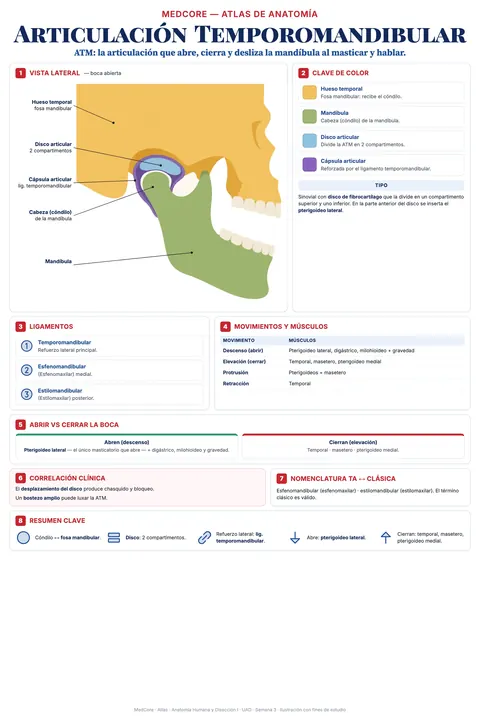
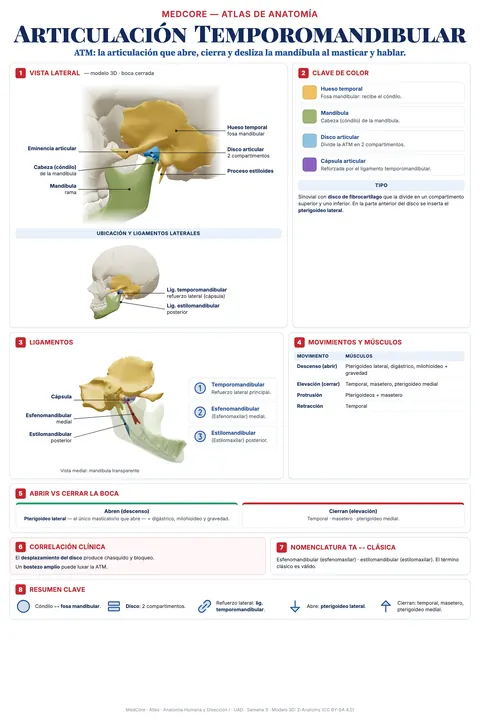
feat(atlas): ATM y articulaciones de la columna con renders de Z-Anatomy
ATM: acercamiento lateral (temporal, disco, cóndilo, estiloides), ubicación
con ligamento temporomandibular y vista medial con los ligamentos
esfenomandibular y estilomandibular. Columna: corte sagital T12–L4 con
discos, núcleo pulposo y los cinco ligamentos. render-atlas.html: opción
clip para cortes sagitales.

diff --git a/docs/atlas-posters/membrana/src/anat-atm.html b/docs/atlas-posters/membrana/src/anat-atm.html
@@ -9,10 +9,10 @@
 
 <div class="row">
   <section class="panel" style="flex:1.6">
-    <div class="ph"><span class="n">1</span>Vista lateral <small>— boca abierta</small></div>
-    <script type="callout">{"img":"ana/atm.png","w":1024,"h":1070,"height":470,"L":130,"cw":580,"ch":480,
-      "left":[["Hueso temporal","fosa mandibular",[180,190],50],["Disco articular","2 compartimentos",[410,395],140],["Cápsula articular","lig. temporomandibular",[285,470],215],["Cabeza (cóndilo)","de la mandíbula",[370,500],285],["Mandíbula","",[560,820],390]],
-      "right":[]}</script>
+    <div class="ph"><span class="n">1</span>Vista lateral <small>— modelo 3D · boca cerrada</small></div>
+    <script type="auto3d">{"img": "ana3d/atm-zoom.png", "height": 300, "cw": 580, "L": 140, "gap": 40, "labels": {"tem": ["Hueso temporal", "fosa mandibular", [947, 467]], "emi": ["Eminencia articular", "", [457, 677]], "disc": ["Disco articular", "2 compartimentos", [702, 688]], "con": ["Cabeza (cóndilo)", "de la mandíbula", [714, 790]], "est": ["Proceso estiloides", "", [796, 900]], "man": ["Mandíbula", "rama", [481, 1050]]}, "side": {"emi": "left", "man": "left", "con": "left", "tem": "right", "disc": "right", "est": "right"}}</script>
+    <div class="sh" style="margin-top:4px">Ubicación y ligamentos laterales</div>
+    <script type="auto3d">{"img": "ana3d/atm-lat.png", "height": 165, "cw": 580, "L": 150, "gap": 34, "labels": {"lig": ["Lig. temporomandibular", "refuerzo lateral (cápsula)"], "sty": ["Lig. estilomandibular", "posterior"]}, "side": {"lig": "right", "sty": "right"}}</script>
   </section>
 
   <section class="panel" style="flex:1">
@@ -29,13 +29,13 @@
 </div>
 
 <div class="row">
-  <section class="panel" style="flex:1">
+  <section class="panel" style="flex:2">
     <div class="ph"><span class="n">3</span>Ligamentos</div>
-    <div class="cards">
+    <div style="display:flex;gap:10px;align-items:center"><div style="flex:0 0 360px"><script type="auto3d">{"img": "ana3d/atm-med.png", "height": 240, "cw": 360, "L": 130, "gap": 40, "labels": {"sph": ["Esfenomandibular", "medial"], "sty": ["Estilomandibular", "posterior"], "cap": ["Cápsula", ""]}, "side": {"sph": "left", "sty": "left", "cap": "left"}}</script><p style="font-size:9.6px;color:var(--muted);margin:0;text-align:center">Vista medial: mandíbula transparente</p></div><div style="flex:1;min-width:0"><div class="cards">
       <div class="card"><span class="ico">{{icon:NumberCircleOne}}</span><div><p class="t">Temporomandibular</p><p class="d">Refuerzo lateral principal.</p></div></div>
       <div class="card"><span class="ico">{{icon:NumberCircleTwo}}</span><div><p class="t">Esfenomandibular</p><p class="d">(Esfenomaxilar) medial.</p></div></div>
       <div class="card"><span class="ico">{{icon:NumberCircleThree}}</span><div><p class="t">Estilomandibular</p><p class="d">(Estilomaxilar) posterior.</p></div></div>
-    </div>
+    </div></div></div>
   </section>
   <section class="panel" style="flex:1.3">
     <div class="ph"><span class="n">4</span>Movimientos y músculos</div>
@@ -80,5 +80,5 @@
   </div>
 </section>
 
-<p class="foot">MedCore · Atlas · Anatomía Humana y Disección I · UAD · Semana 3 · Ilustración con fines de estudio</p>
+<p class="foot">MedCore · Atlas · Anatomía Humana y Disección I · UAD · Semana 3 · Modelo 3D: Z-Anatomy (CC BY-SA 4.0)</p>
 </div></body></html>

diff --git a/docs/atlas-posters/membrana/src/anat-art-columna.html b/docs/atlas-posters/membrana/src/anat-art-columna.html
@@ -8,10 +8,8 @@
 </header>
 
 <section class="panel">
-    <div class="ph"><span class="n">1</span>Vista lateral <small>— segmento vertebral</small></div>
-    <script type="callout">{"img":"ana/artc-col.png","w":1134,"h":1890,"height":620,"L":260,"cw":960,"ch":630,"rx":650,
-      "left":[["Cuerpo vertebral","",[200,300],80],["Lig. longitudinal","anterior",[37,706],180],["Disco intervertebral","entre los cuerpos",[264,542],300]],
-      "right":[["Lig. flavo","(amarillo) · entre láminas",[730,643],200],["Lig. supraespinoso","vértices espinosos",[1071,706],280],["Lig. longitudinal","posterior",[781,1084],380],["Proceso espinoso","",[950,1400],500]]}</script>
+    <div class="ph"><span class="n">1</span>Corte sagital <small>— modelo 3D · columna lumbar (T12–L4)</small></div>
+    <script type="auto3d">{"img": "ana3d/col-sag.png", "height": 600, "cw": 960, "L": 330, "gap": 70, "labels": {"cv": ["Cuerpo vertebral", "", [180, 420]], "all": ["Lig. longitudinal", "anterior", [52, 640]], "disc": ["Disco intervertebral", "anillo fibroso + núcleo pulposo", [190, 555]], "pll": ["Lig. longitudinal", "posterior · en el conducto", [300, 700]], "fl": ["Lig. flavo", "(amarillo) · entre láminas", [362, 820]], "esp": ["Proceso espinoso", "", [520, 600]], "is": ["Lig. interespinoso", "entre procesos espinosos", [560, 760]], "ss": ["Lig. supraespinoso", "vértices espinosos", [600, 980]]}, "side": {"cv": "left", "all": "left", "disc": "left", "pll": "left", "fl": "right", "esp": "right", "is": "right", "ss": "right"}}</script>
 </section>
 
 <div class="row">
@@ -57,5 +55,5 @@
   <div class="sum"><div>{{icon:Rows}}<span><b>Discos</b> entre cuerpos.</span></div><div>{{icon:ArrowsLeftRight}}<span><b>Cigapofisarias</b>: sinoviales.</span></div><div>{{icon:ArrowLineLeft}}<span>Longitudinal <b>anterior</b> limita la extensión.</span></div><div>{{icon:Lightning}}<span>Flavo = <b>amarillo</b>.</span></div><div>{{icon:ArrowsClockwise}}<span>Atlanto-axial: <b>pivote</b>.</span></div></div>
 </section>
 
-<p class="foot">MedCore · Atlas · Anatomía Humana y Disección I · UAD · Semana 3 · Ilustración con fines de estudio</p>
+<p class="foot">MedCore · Atlas · Anatomía Humana y Disección I · UAD · Semana 3 · Modelo 3D: Z-Anatomy (CC BY-SA 4.0)</p>
 </div></body></html>

diff --git a/render-atlas.html b/render-atlas.html
@@ -85,6 +85,12 @@ loader.load('/models/' + q.get('model'), (g) => {
   const fb = new THREE.Box3(); if (focus) scene.traverse(o => { if (o.isMesh && o.visible && focus.test(nameOf(o))) fb.expandByObject(o) })
   const b = focus && !fb.isEmpty() ? fb : box
   const c = b.getCenter(new THREE.Vector3()), s = b.getSize(new THREE.Vector3())
+  // clip=1: corte sagital en la línea media del foco (se ve la cara de corte desde +x)
+  if (q.get('clip')) {
+    renderer.localClippingEnabled = true
+    const pl = new THREE.Plane(new THREE.Vector3(-1, 0, 0), c.x + (+q.get('clipoff') || 0))
+    scene.traverse(o => { if (o.isMesh && o.material) { o.material.clippingPlanes = [pl]; o.material.side = THREE.DoubleSide } })
+  }
   const views = { anterior: [0, 0, 1], posterior: [0, 0, -1], lateral: [1, 0, 0], medial: [-1, 0, 0], superior: [0, 1, 0.0001], inferior: [0, -1, 0.0001], 'antlat': [0.6, 0, 0.8], 'postlat': [0.6, 0, -0.8] }
   const d = new THREE.Vector3(...(views[q.get('view') || 'anterior'] || q.get('view').split(',').map(Number))).normalize()
   const r = Math.max(s.x, s.y, s.z) * +(q.get('pad') || 0.62)
